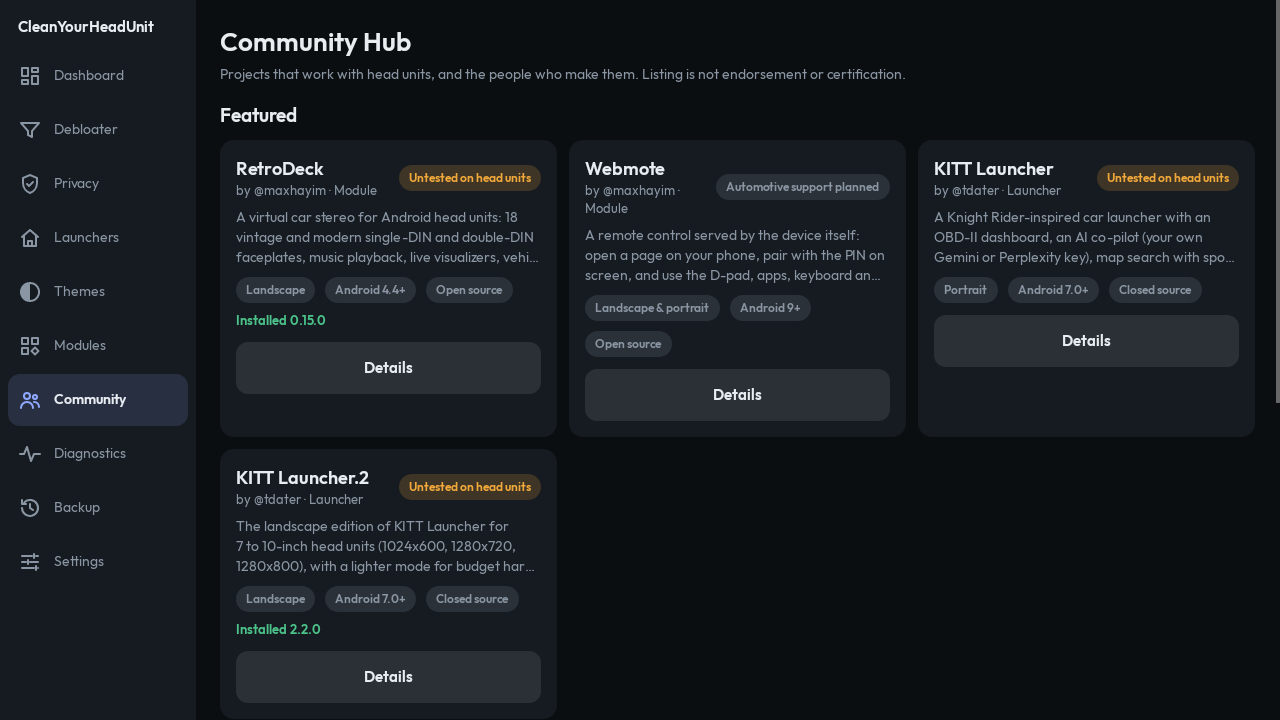
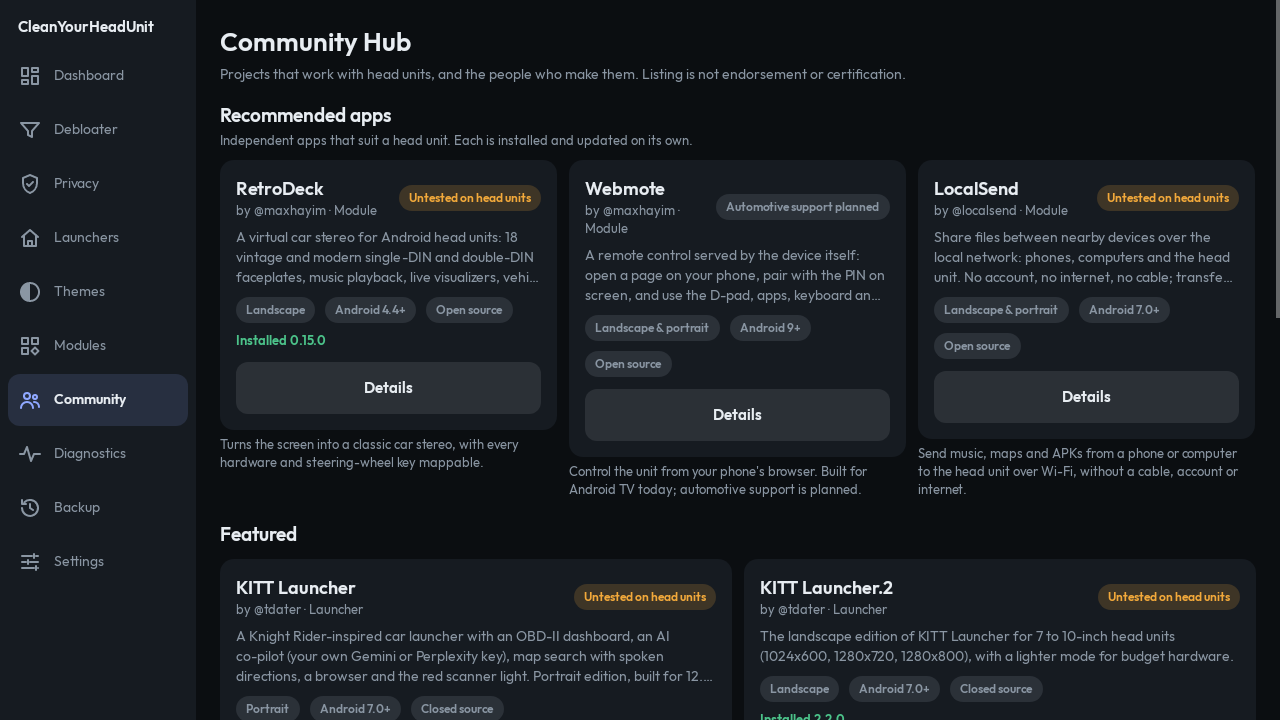
Recommended apps: RetroDeck, Webmote, LocalSend
- data/catalog.json gets a 'recommended' list (id + one-line reason), checked by catalog validate.
- LocalSend (localsend/localsend, Apache-2.0, Android 7.0+) added as a links-only module: its
  release ships one APK per processor, so no single-asset install is offered.
- The Community Hub shows Recommended apps first; the README and MODULES.md list them.
- Tests: Python checks the list and the validator; the hub render checks all three appear.

diff --git a/app/src/main/java/io/github/maxhayim/cleanyourheadunit/Screens.java b/app/src/main/java/io/github/maxhayim/cleanyourheadunit/Screens.java
@@ -547,9 +547,23 @@ final class Screens {
             Theme th = Ui.t(a);
             LinearLayout l = Ui.vbox(a);
             l.addView(Ui.header(a, "Community Hub", "Projects that work with head units, and the people who make them. Listing is not endorsement or certification."));
-            Ui.add(l, Ui.text(a, "Featured", 19, th.text, true), 18);
+            Ui.add(l, Ui.text(a, "Recommended apps", 19, th.text, true), 18);
+            Ui.add(l, Ui.dim(a, "Independent apps that suit a head unit. Each is installed and updated on its own."), 2);
+            Ui.Grid rg = new Ui.Grid(a, 280);
+            java.util.Set<String> shown = new java.util.HashSet<>();
+            for (Object[] r : Catalog.recommended(a)) {
+                JSONObject it = (JSONObject) r[0];
+                shown.add(it.optString("id"));
+                LinearLayout col = Ui.vbox(a);
+                col.addView(Listing.card(a, it));
+                Ui.add(col, Ui.text(a, (String) r[1], 13, th.dim, false), 6);
+                rg.addView(col);
+            }
+            Ui.add(l, rg, 10);
+
+            Ui.add(l, Ui.text(a, "Featured", 19, th.text, true), 22);
             Ui.Grid g = new Ui.Grid(a, 280);
-            for (JSONObject it : Catalog.items(a, null)) if (it.optBoolean("featured")) g.addView(Listing.card(a, it));
+            for (JSONObject it : Catalog.items(a, null)) if (it.optBoolean("featured") && !shown.contains(it.optString("id"))) g.addView(Listing.card(a, it));
             Ui.add(l, g, 10);
 
             Ui.add(l, Ui.text(a, "Developers", 19, th.text, true), 22);

diff --git a/tests/test_cyhu.py b/tests/test_cyhu.py
@@ -310,6 +310,18 @@ class TestCatalog(unittest.TestCase):
             if os.path.isdir(folder):
                 self.assertEqual(catalog.check_theme_folder(folder), [], name)
 
+    def test_recommended_apps(self):
+        rec = [r["id"] for r in data.catalog()["recommended"]]
+        self.assertEqual(rec, ["retrodeck", "webmote", "localsend"])
+        ls = catalog.item("localsend")
+        self.assertEqual(ls["install"], "none")          # one APK per processor: links only
+        self.assertEqual(ls["package"], "org.localsend.localsend_app")
+        bad = json.loads(json.dumps(data.catalog()))
+        bad["recommended"].append({"id": "nope", "why": ""})
+        errs = catalog.validate(bad)
+        self.assertTrue(any("nope: not an item" in e for e in errs))
+        self.assertTrue(any("needs a 'why'" in e for e in errs))
+
     def test_attribution_github_first(self):
         self.assertEqual(catalog.credit("tdater"), "@tdater")
         self.assertEqual(catalog.credit("maxhayim"), "@maxhayim")

diff --git a/tools/cyhu/catalog.py b/tools/cyhu/catalog.py
@@ -207,6 +207,16 @@ def validate(cat: dict | None = None, root: str | None = None) -> list[str]:
     launchers = {it["id"] for it in cat.get("items", []) if it.get("kind") == "launcher"}
     for it in cat.get("items", []):
         errors += check_item(it, devs, launchers, root)
+    seen = set()
+    for r in cat.get("recommended", []):
+        rid = r.get("id")
+        if rid not in ids:
+            errors.append(f"recommended {rid}: not an item in the catalog")
+        if rid in seen:
+            errors.append(f"recommended {rid}: listed twice")
+        seen.add(rid)
+        if not str(r.get("why", "")).strip():
+            errors.append(f"recommended {rid}: needs a 'why'")
     return errors
 
 

diff --git a/app/src/main/java/io/github/maxhayim/cleanyourheadunit/Catalog.java b/app/src/main/java/io/github/maxhayim/cleanyourheadunit/Catalog.java
@@ -30,6 +30,16 @@ public final class Catalog {
         return null;
     }
 
+    /** The recommended apps, in order: {item, why}. Entries whose item is missing are skipped. */
+    public static List<Object[]> recommended(Context c) {
+        List<Object[]> out = new ArrayList<>();
+        for (JSONObject r : Data.list(Data.catalog(c).optJSONArray("recommended"))) {
+            JSONObject it = item(c, r.optString("id"));
+            if (it != null) out.add(new Object[]{it, r.optString("why")});
+        }
+        return out;
+    }
+
     public static List<JSONObject> developers(Context c) {
         return Data.list(Data.catalog(c).optJSONArray("developers"));
     }

diff --git a/app/src/test/java/io/github/maxhayim/cleanyourheadunit/ScreensTest.java b/app/src/test/java/io/github/maxhayim/cleanyourheadunit/ScreensTest.java
@@ -140,6 +140,8 @@ public class ScreensTest {
         assertTrue(t.contains("Sergey Kozlov"));
         assertFalse("invented username", t.contains("@sergey"));
         assertTrue("official page button", t.contains("Website"));
+        assertTrue(t, t.contains("Recommended apps"));
+        assertTrue(t.contains("RetroDeck") && t.contains("Webmote") && t.contains("LocalSend"));
         shot(a, "community-1280x720");
 
         a.show("modules");

diff --git a/README.md b/README.md
@@ -162,6 +162,17 @@ com.adups.fota  [advanced]
 
 <p>The most useful contributions are <strong>device profiles and compatibility reports from real units</strong>. Launchers, modules and themes are welcome too. See <a href="CONTRIBUTING.md">CONTRIBUTING.md</a>, <a href="COMMUNITY.md">COMMUNITY.md</a> and the <a href="https://github.com/maxhayim/CleanYourHeadUnit/issues/new/choose">issue templates</a>. Please read <a href="SAFETY.md">SAFETY.md</a> first.</p>
 
+<h2>Recommended Apps</h2>
+
+<p>Independent apps that suit a head unit. Each is its own project, installed and updated on its own. They're also at the top of the app's Community Hub. None has been tested on a car head unit yet.</p>
+
+<table>
+  <tr><th>App</th><th>Developer</th><th>Why</th><th>Get it</th></tr>
+  <tr><td><a href="https://github.com/maxhayim/RetroDeck">RetroDeck</a></td><td><a href="https://github.com/maxhayim">@maxhayim</a></td><td>Turns the screen into a classic car stereo, with every hardware and steering-wheel key mappable.</td><td>Download and install in the app (signature-checked), or <a href="https://github.com/maxhayim/RetroDeck/releases/latest">GitHub releases</a></td></tr>
+  <tr><td><a href="https://github.com/maxhayim/webmote">Webmote</a></td><td><a href="https://github.com/maxhayim">@maxhayim</a></td><td>Control the unit from your phone's browser. Built for Android TV today; automotive support is planned.</td><td><a href="https://github.com/maxhayim/webmote/releases/latest">GitHub releases</a> (no install offered for head units yet)</td></tr>
+  <tr><td><a href="https://localsend.org">LocalSend</a></td><td><a href="https://github.com/localsend">@localsend</a></td><td>Send music, maps and APKs from a phone or computer to the head unit over Wi-Fi: no cable, account or internet, and transfers are encrypted. Needs Android 7.0+ (1.17.0 for Android 5 and 6).</td><td><a href="https://localsend.org">localsend.org</a> or <a href="https://github.com/localsend/localsend/releases/latest">GitHub releases</a>: pick the APK for the unit's processor</td></tr>
+</table>
+
 <h2>Related Projects</h2>
 
 <ul>

diff --git a/CHANGELOG.md b/CHANGELOG.md
@@ -21,6 +21,7 @@ First version of CleanYourHeadUnit, derived from CleanYourTV `f47c893d` by @Gath
 - Door, trunk, seatbelt and car-status apps protected by name on any unit (`door`, `canbox`, `cluster`, `instrument`, `bcm`, and `car`/`can` as word starts); vehicle rules now come before device-profile entries, and the firewall skips Protected apps when it starts
 - CleanYourHeadUnit Companion, a phone app (Android 7.0+): connects over USB (OTG) or Wi-Fi with its own ADB client (written from AOSP's protocol description), reads the unit (including the real Android version when the settings claim another), plans, applies and restores with the shared rules and the same record files as `cyhu`, and works as a bridge (`tcpip 5555`) for units without Wireless debugging. It never offers Unknown apps. 20 tests against a simulated adbd and a simulated unit. Not yet tested on real hardware.
 - The classifier (`Rules.java`) and data loader moved to `shared/java`, used by both apps
+- Recommended apps (RetroDeck, Webmote, LocalSend) at the top of the Community Hub and in the README; LocalSend added to the catalog (links only, since it ships one APK per processor)
 - Themes: Midnight, Amber Dash, Daylight, plus an accent colour you choose (ten presets or any #RRGGBB) that works with every theme
 - Tests: 45 Python tests, 20 Java tests for the head-unit app and 20 for the companion (including shared classification vectors and screen renders at five resolutions)
 - Docs: README, INSTALL, COMPATIBILITY, DEBLOAT, PRIVACY, MODULES, THEMES, COMMUNITY, CONTRIBUTING, SAFETY, RESTORE, CREDITS, SECURITY, plus the hardware checklist, test report, release readiness and specs

diff --git a/MODULES.md b/MODULES.md
@@ -10,7 +10,10 @@ Modules are independent apps that work well on head units. Each is its own proje
 | [Webmote](https://github.com/maxhayim/webmote) | module | [@maxhayim](https://github.com/maxhayim) | GitHub releases, MIT | **Automotive support planned**: no install offered yet |
 | [KITT Launcher](https://github.com/tdater/KITT-Launcher-releases) | launcher, portrait | [@tdater](https://github.com/tdater) | GitHub releases, closed source (all rights reserved) | untested on head units |
 | [KITT Launcher.2](https://github.com/tdater/KITT-Launcher.2-releases) | launcher, landscape | [@tdater](https://github.com/tdater) | GitHub releases, closed source (all rights reserved) | untested on head units |
+| [LocalSend](https://localsend.org) | module (recommended) | [@localsend](https://github.com/localsend) | [GitHub releases](https://github.com/localsend/localsend/releases/latest), Apache-2.0 | untested on head units. Links only: the release has one APK per processor type, so no install is offered |
 | CleanYourHeadUnit Home | launcher | [@maxhayim](https://github.com/maxhayim) | built into the app | untested on head units |
+
+**Recommended apps:** RetroDeck, Webmote and LocalSend, in that order. The list is `recommended` in `data/catalog.json`, each with a one-line reason; `catalog validate` checks that every entry exists and has a reason.
 
 KITT Launcher and KITT Launcher.2 are proprietary. CleanYourHeadUnit links to and downloads from @tdater's official release repositories only, and is not affiliated with or endorsed by @tdater.
 
